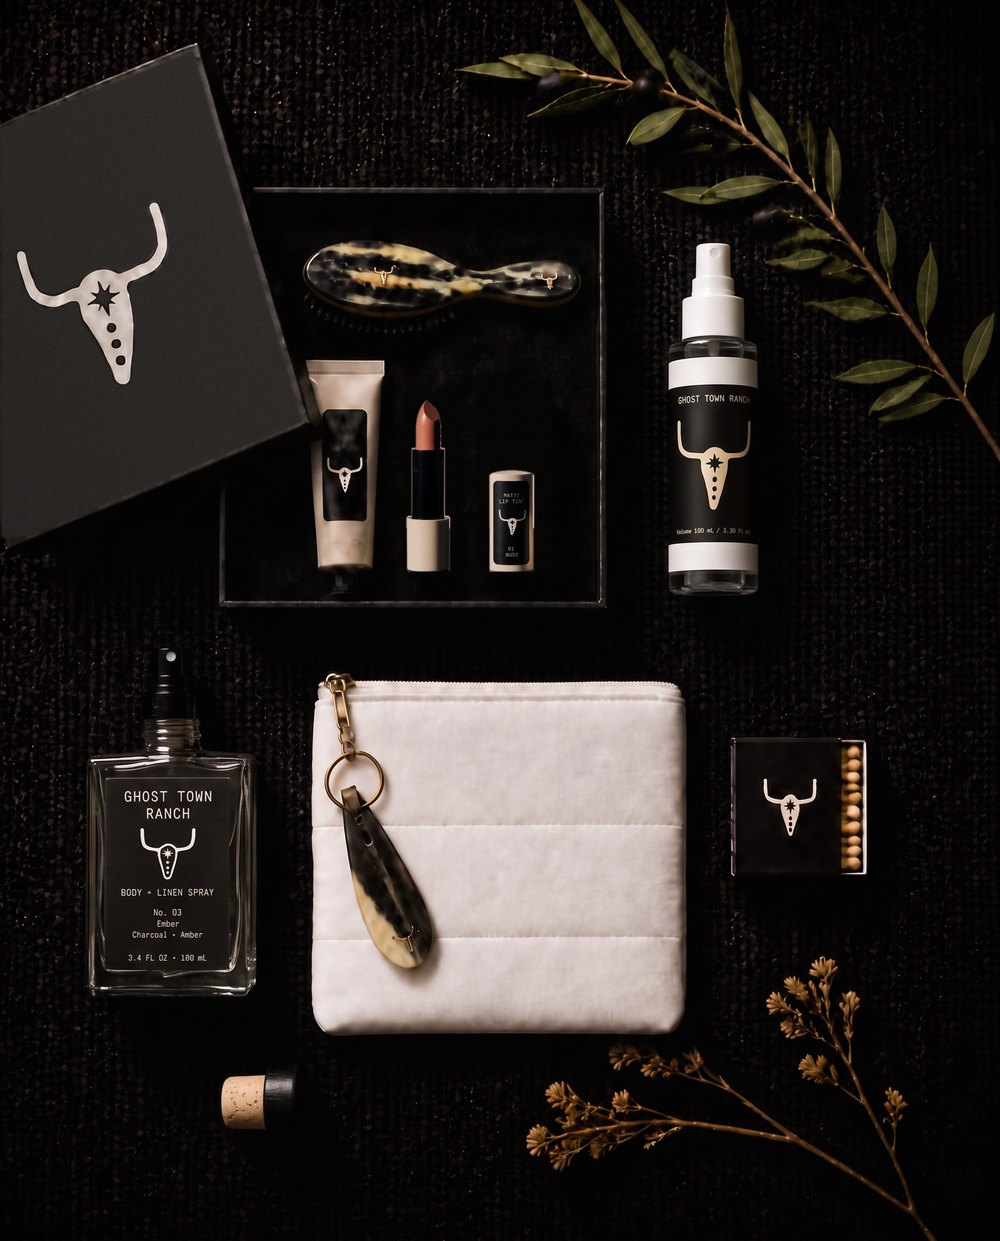
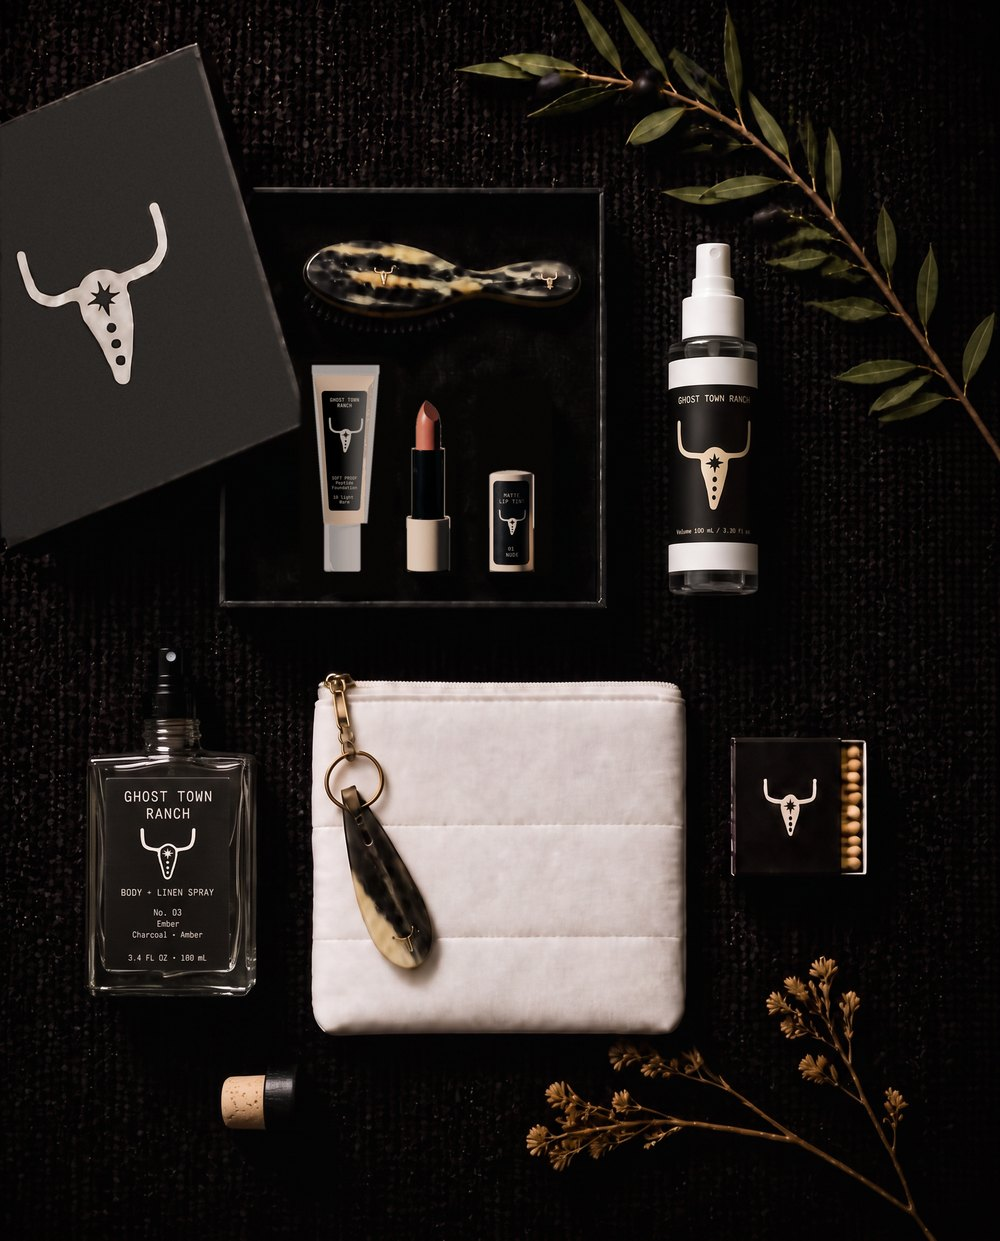
Homepage: Soft Proof tube on Out the Door
Claude-Session: https://claude.ai/code/session_012NRWdKkyMvqGGJrysnMaPF

Changed region(s): [[0.279, 0.2756, 0.403, 0.4593]]

diff --git a/index.html b/index.html
@@ -905,8 +905,8 @@
       <div class="road-cap">Morning<span>Shoehorn, comb, Golden Hour, Mojave Reset</span></div>
     </a>
     <a class="road-tile" href="https://ghosttownranch.com/routines/">
-      <div class="road-media"><img src="/media/collection-out-the-door.jpg" alt="White Day Ride bag with the horn shoehorn keyring, horn hairbrush, hand cream, Drawn Line in 01 Nude, Dry Creek and Ranch Water" loading="lazy"></div>
-      <div class="road-cap">Out the Door<span>Day Ride, keyring, brush, Drawn Line, Dry Creek, Ranch Water</span></div>
+      <div class="road-media"><img src="/media/collection-out-the-door.jpg" alt="White Day Ride bag with the horn shoehorn keyring, horn hairbrush, Soft Proof foundation, Drawn Line in 01 Nude, Dry Creek and Ranch Water" loading="lazy"></div>
+      <div class="road-cap">Out the Door<span>Day Ride, keyring, brush, Soft Proof, Drawn Line, Dry Creek, Ranch Water</span></div>
     </a>
     <a class="road-tile" href="https://ghosttownranch.com/wash-house/">
       <div class="road-media"><img src="/media/collection-end-of-day.jpg" alt="Horn comb and brush in a black Bull box, black Day Ride bag, horn valet tray with the shoehorn keyring, The Wash, Ranch Water in Graze and Beard Butter" loading="lazy"></div>
